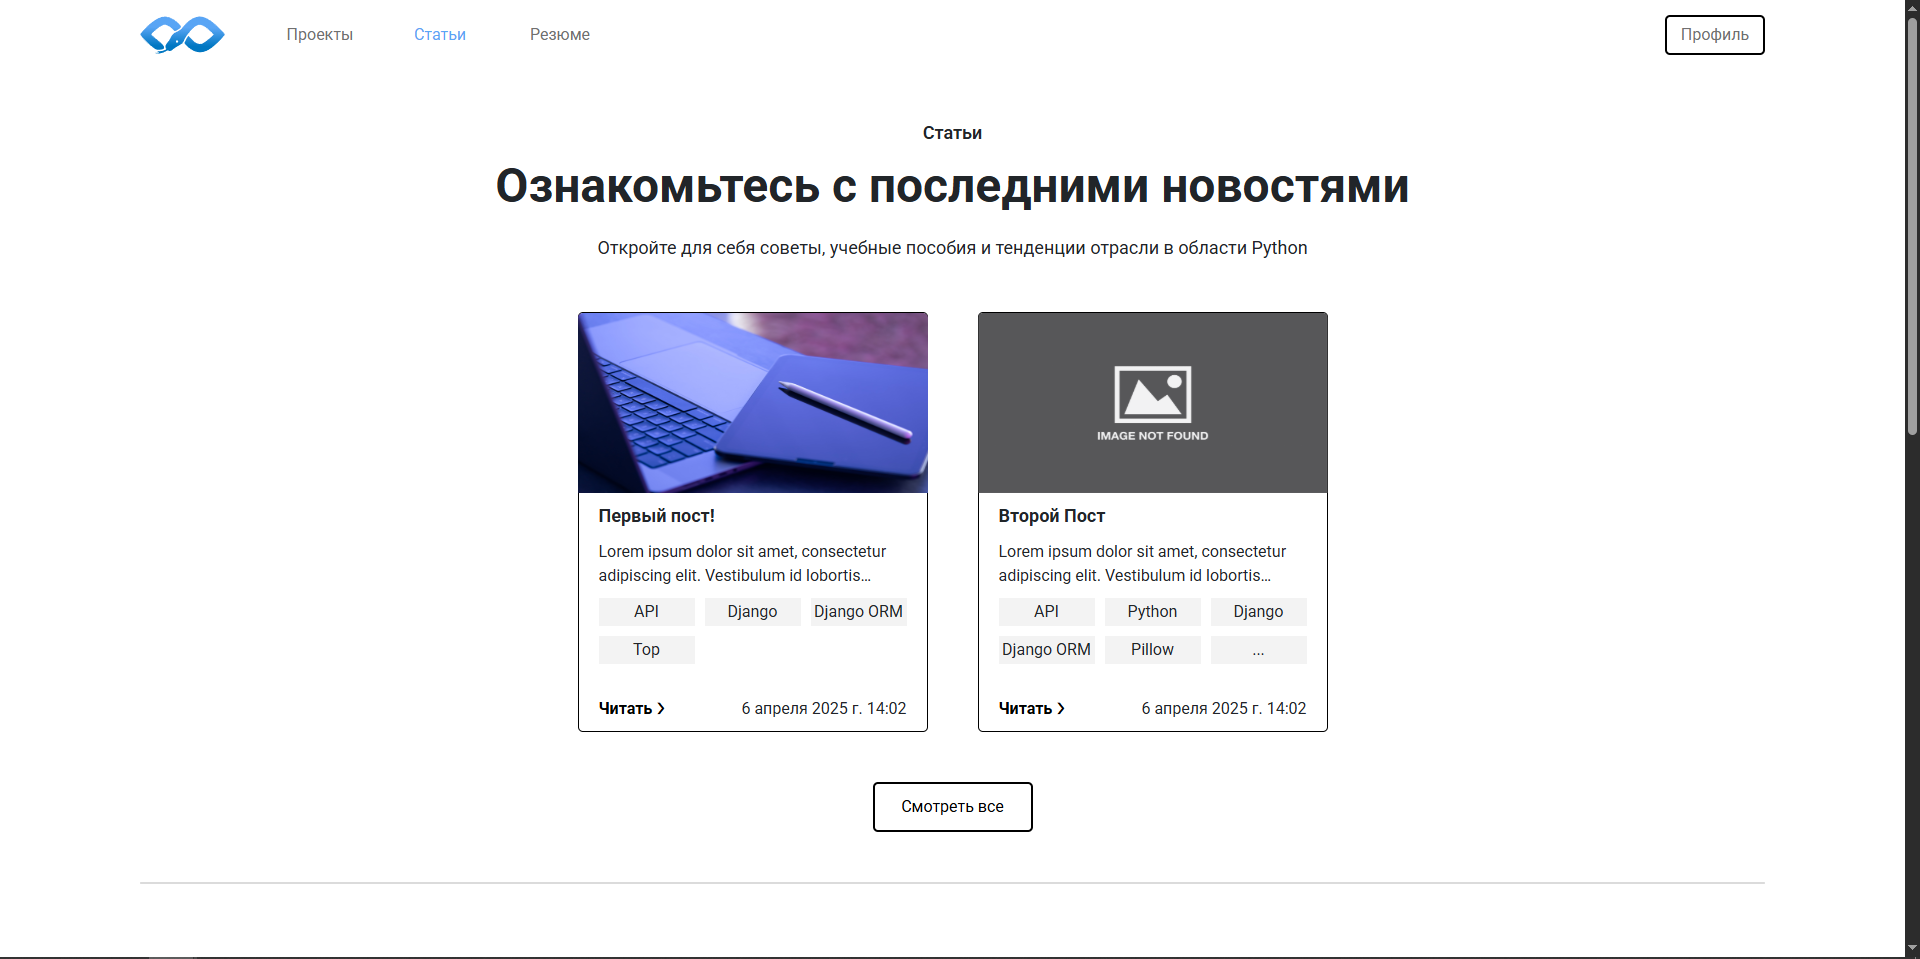
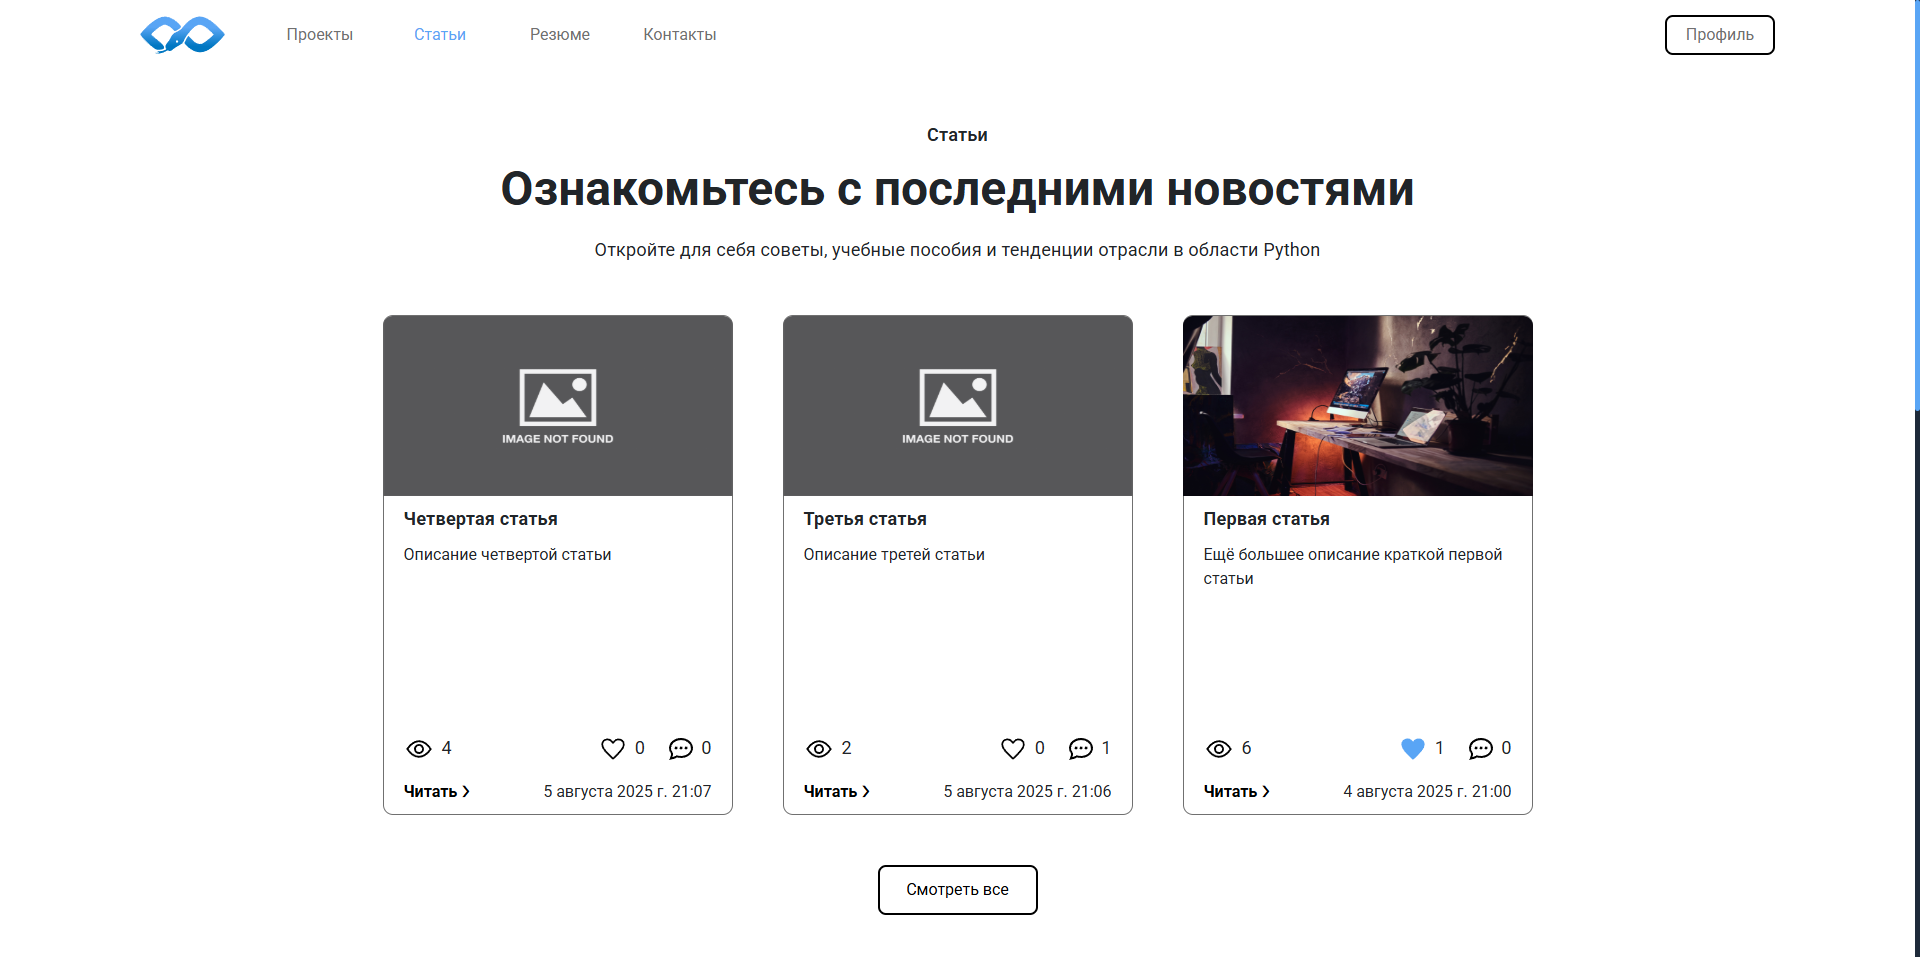
Update Readme. Remove comments in docker-compose.
1. Update Readme.
2. Remove comments in docker-compose.

diff --git a/README.md b/README.md
@@ -26,53 +26,26 @@
 
 **Основная цель** – презентация квалификации разработчика потенциальным работодателям и 
 коллегам, а также хранение и структурирование полезной информации в форме блога и портфолио. 
-Здесь Вы найдете примеры кода, описания реализованных проектов и сведения об образовании и опыте
+Здесь вы найдете примеры кода, описания реализованных проектов и сведения об образовании и опыте
 работы.
 
 **PyTime** – это виртуальная визитная карточка, отражающая страсть к разработке и стремление к
 постоянному профессиональному росту.
 
-### 🌐 Ссылка на [PyTime.ru - Мой личный сайт на Django](https://www.pytime.ru/)
+### 🌐 Ссылка на [PyTime.ru - Начало Backend разработчика на Python](https://www.pytime.ru/)
 
 ---
 
 ## 📷 Изображения с сайта
 
-
-<p align="center">
-  Адаптивность
-</p>
-
 <p align="center">
   <img src="./README/img/pages/Desktop.png">
 </p>
 <p align="center">
-  💻 Десктопная версия
+  💻 Главная страница
 </p>
 
 <br>
-
-<p align="center">
-  <img src="./README/img/pages/Tablet.png">
-</p>
-<p align="center">
-  📋 Планшетная версия
-</p>
-
-<br>
-  
-<p align="center">
-  <img src="./README/img/pages/Phone.png">  
-</p>
-<p align="center">
-  📱 Телефонная версия
-</p>
-
----
-
-<p align="center">
-  Другие страницы
-</p>
 
 <p align="center">
   <img src="./README/img/pages/Articles.png">  
@@ -96,7 +69,25 @@
   <img src="./README/img/pages/Resume.png">  
 </p>
 <p align="center">
-  📄 Страница с резюме
+  📄 Страница резюме
+</p>
+
+<br>
+
+<p align="center">
+  <img src="./README/img/pages/Contact.png">  
+</p>
+<p align="center">
+  📄 Страница контактов
+</p>
+
+<br>
+
+<p align="center">
+  <img src="./README/img/pages/Profile.png">  
+</p>
+<p align="center">
+  📄 Профиль Пользователя
 </p>
 
 ---
@@ -104,8 +95,10 @@
 ## 🌍 Доступные URL-адреса
 - Главная страница: `pytime.ru/`
 - Статьи: `pytime.ru/articles/`
+- Все статьи: `pytime.ru/all-articles/`
 - Проекты: `pytime.ru/projects/`
-- Контакты: `pytime.ru/contact/` (В разработке)
+- Все проекты: `pytime.ru/all-projects/`
+- Контакты: `pytime.ru/contact/`
 - Сервисы: `pytime.ru/services/` (В разработке)
 - Пользовательское соглашение: `pytime.ru/agreement/`
 - Политика конфиденциальности: `pytime.ru/privacy/`
@@ -120,7 +113,7 @@
   - Резюме
   - Описание проектов
   - Статьи
-  - Контакты (В разработке)
+  - Контакты
   - Сервисы (В разработке)
 - Система аутентификации
   - Регистрация
@@ -146,34 +139,77 @@
 - GitHub Actions (CI/CD)
 
 ### 📑 Основные библиотеки
-- django-extensions 3.2.3+
-- factory_boy 3.3.3+
 - gunicorn 23.0.0+
+- psycopg2 2.9.10+
+- django-extensions 3.2.3+
+- django-environ 0.12.0+
+- django-ckeditor 6.7.3+
+- django-recaptcha 4.1.0+
+- django-bleach 3.1.0+
+- bleach 5.0.1+
+- factory_boy 3.3.3+
 - pillow 11.1.0+
 - numpy 2.3.1+
-- psycopg2 2.9.10+
-- django-environ 0.12.0+
+- better-profanity 0.7.0+ 
+- coverage==7.10.4
 
 ---
+
+## 📊 Тестирование
+
+Для тестирования использовалась технология `UnitTest`, а для отслеживания 
+покрытия кода тестами применялась библиотека `coverage`. В проекте достигнуто 
+`99% покрытия тестами`, что обеспечивает высокую надежность и стабильность 
+работы приложения. Тесты охватывают все основные модули, включая 
+пользовательскую аутентификацию, работу с статьями и проектами, систему 
+комментариев и функционал электронной почты.
+
+<p align="center">
+  <img src="./README/img/coverage/1.png">
+  <img src="./README/img/coverage/2.png">
+</p>
+<p align="center">
+  📈 Результаты покрытия тестами проекта
+</p>
+
 
 ## 📂 Структура проекта
 
 ```
 PyTime Site
-├── README/               # README проекта
-├── requirements.txt      # Зависимости проекта
 ├── LICENSE               # Лицензия
-├── conf/                 # Nginx конфиг
 ├── docker-compose.yml    # Контеризация приложения
+├── README.md
+├── .gitattributes
+├── .gitignore
+├── README/               # Файлы для README.md
+├── conf/                 # Nginx конфиг
+├── dev_database/         # Контеризация тестовой БД
 └── PyTime_Project/       # Корневая папка проекта
-    ├── PyTime_Project/   # Основные приложения Django
-    ├── core/             # Основное приложение PyTime
-    ├── servises_1/       # В разработке...
-    ├── ...
-    ├── servises_N/       # В разработке...
-    ├── templates/        # HTML шаблоны
-    ├── uploads/          # Загруженные изображения
-    └── manage.py         # Скрипт управления Django
+    ├── PyTime_Project/   # Основные файлы Django приложения
+    ├── apps/             # Директрория приложений
+    │   ├── core/
+    │   ├── users/
+    │   ├── articles/
+    │   ├── projects/
+    │   ├── tags/
+    │   ├── comments/
+    │   ├── skills/
+    │   ├── mail/
+    │   └── likes/
+    ├── servises/         # Директрория сервисов (В разработке)
+    │   ├── servises_1/
+    │   ├── ...
+    │   └── servises_N/
+    ├── .coveragerc           # Настройки coverage
+    ├── .dockerignore
+    ├── Dockerfile            # Docker файл приложения
+    ├── requirements.prod.txt # Библиотеки для продакшена
+    ├── requirements.txt      # Библиотеки для разработки
+    ├── managers/             # Менеджеры приложений
+    ├── mixins/               # Миксины приложений
+    ├── templates/            # HTML шаблоны
+    └── manage.py             # Скрипт управления Django
 ```
 
 ---
@@ -191,16 +227,14 @@ PyTime Site
 ---
 
 ### 🔗 Ссылки
-<div align="center">
-    <a href="https://github.com/Karnagelized" style="text-decoration:none;">
-        <img src="https://github.com/Karnagelized/assets/blob/main/social/Github_icon.png" width="7%" alt="" />
-    </a>
-    <img src="https://github.com/Karnagelized/assets/blob/main/social/logo-transparent.png" width="7%" alt="" />
+<div align="center" style="display: flex; justify-content: space-evenly">
     <a href="https://t.me/masikantonov" style="text-decoration:none;">
-        <img src="https://github.com/Karnagelized/assets/blob/main/social/Telegram_icon.png" width="7%" alt="" />
+        <img src="https://img.shields.io/badge/Telegram-2CA5E0?style=for-the-badge&logo=telegram&logoColor=white"/>
     </a>
-    <img src="https://github.com/Karnagelized/assets/blob/main/social/logo-transparent.png" width="7%" alt="" />
     <a href="https://vk.com/masikantonov" style="text-decoration:none;">
-        <img src="https://github.com/Karnagelized/assets/blob/main/social/VK_icon.png" width="7%" alt="" />
+        <img src="https://img.shields.io/badge/VKontakte-2CA5E0?style=for-the-badge&color=0077ff&logo=vk&logoColor=white"/>
+    </a>
+    <a href="https://pytime.ru" style="text-decoration:none;">
+        <img src="https://img.shields.io/badge/PyTime.ru-ffffff?style=for-the-badge&color=0077c2"/>
     </a>
 </div>
